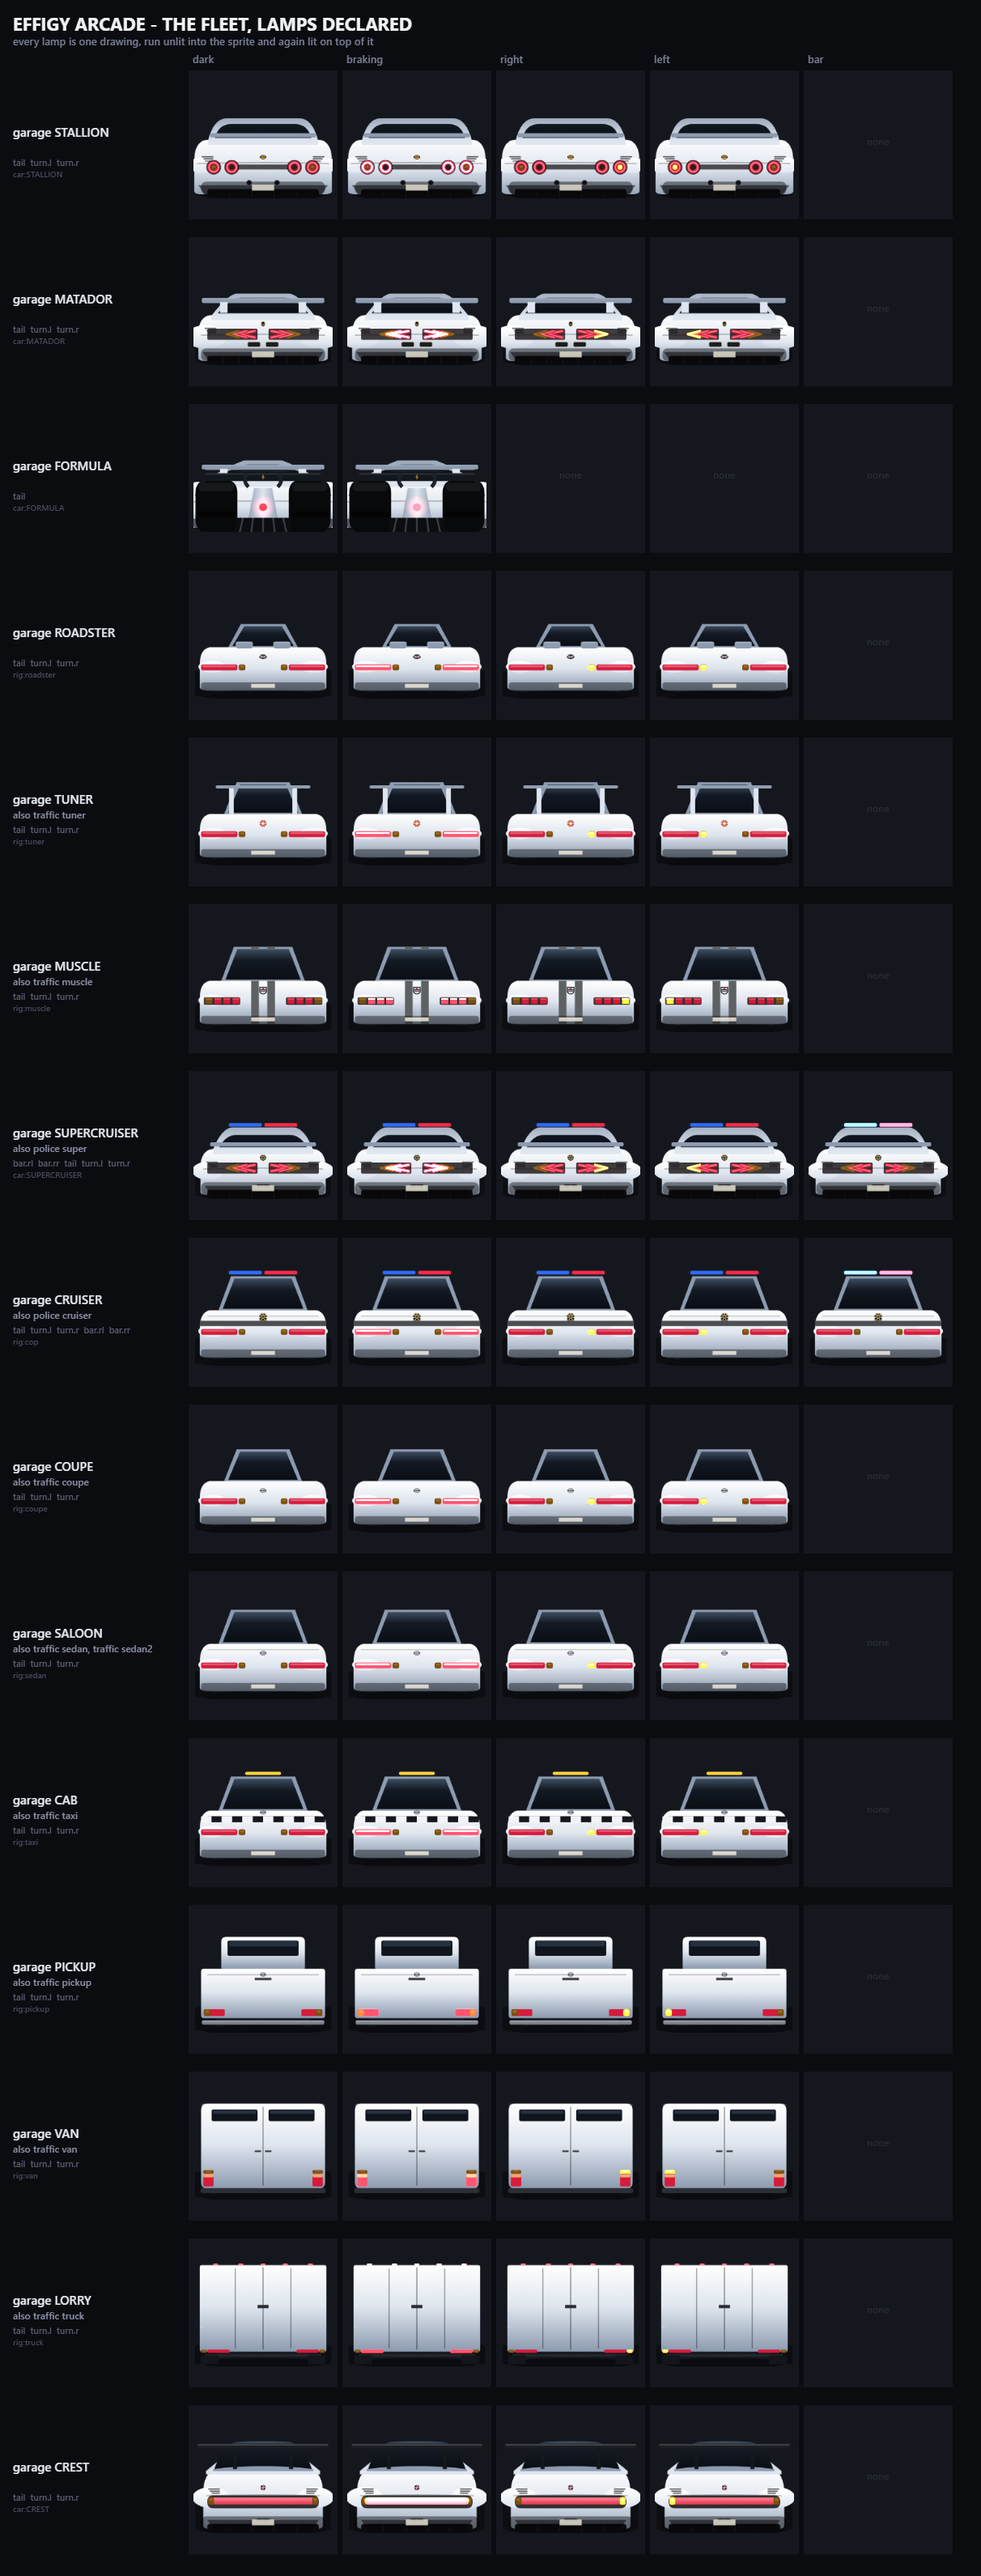
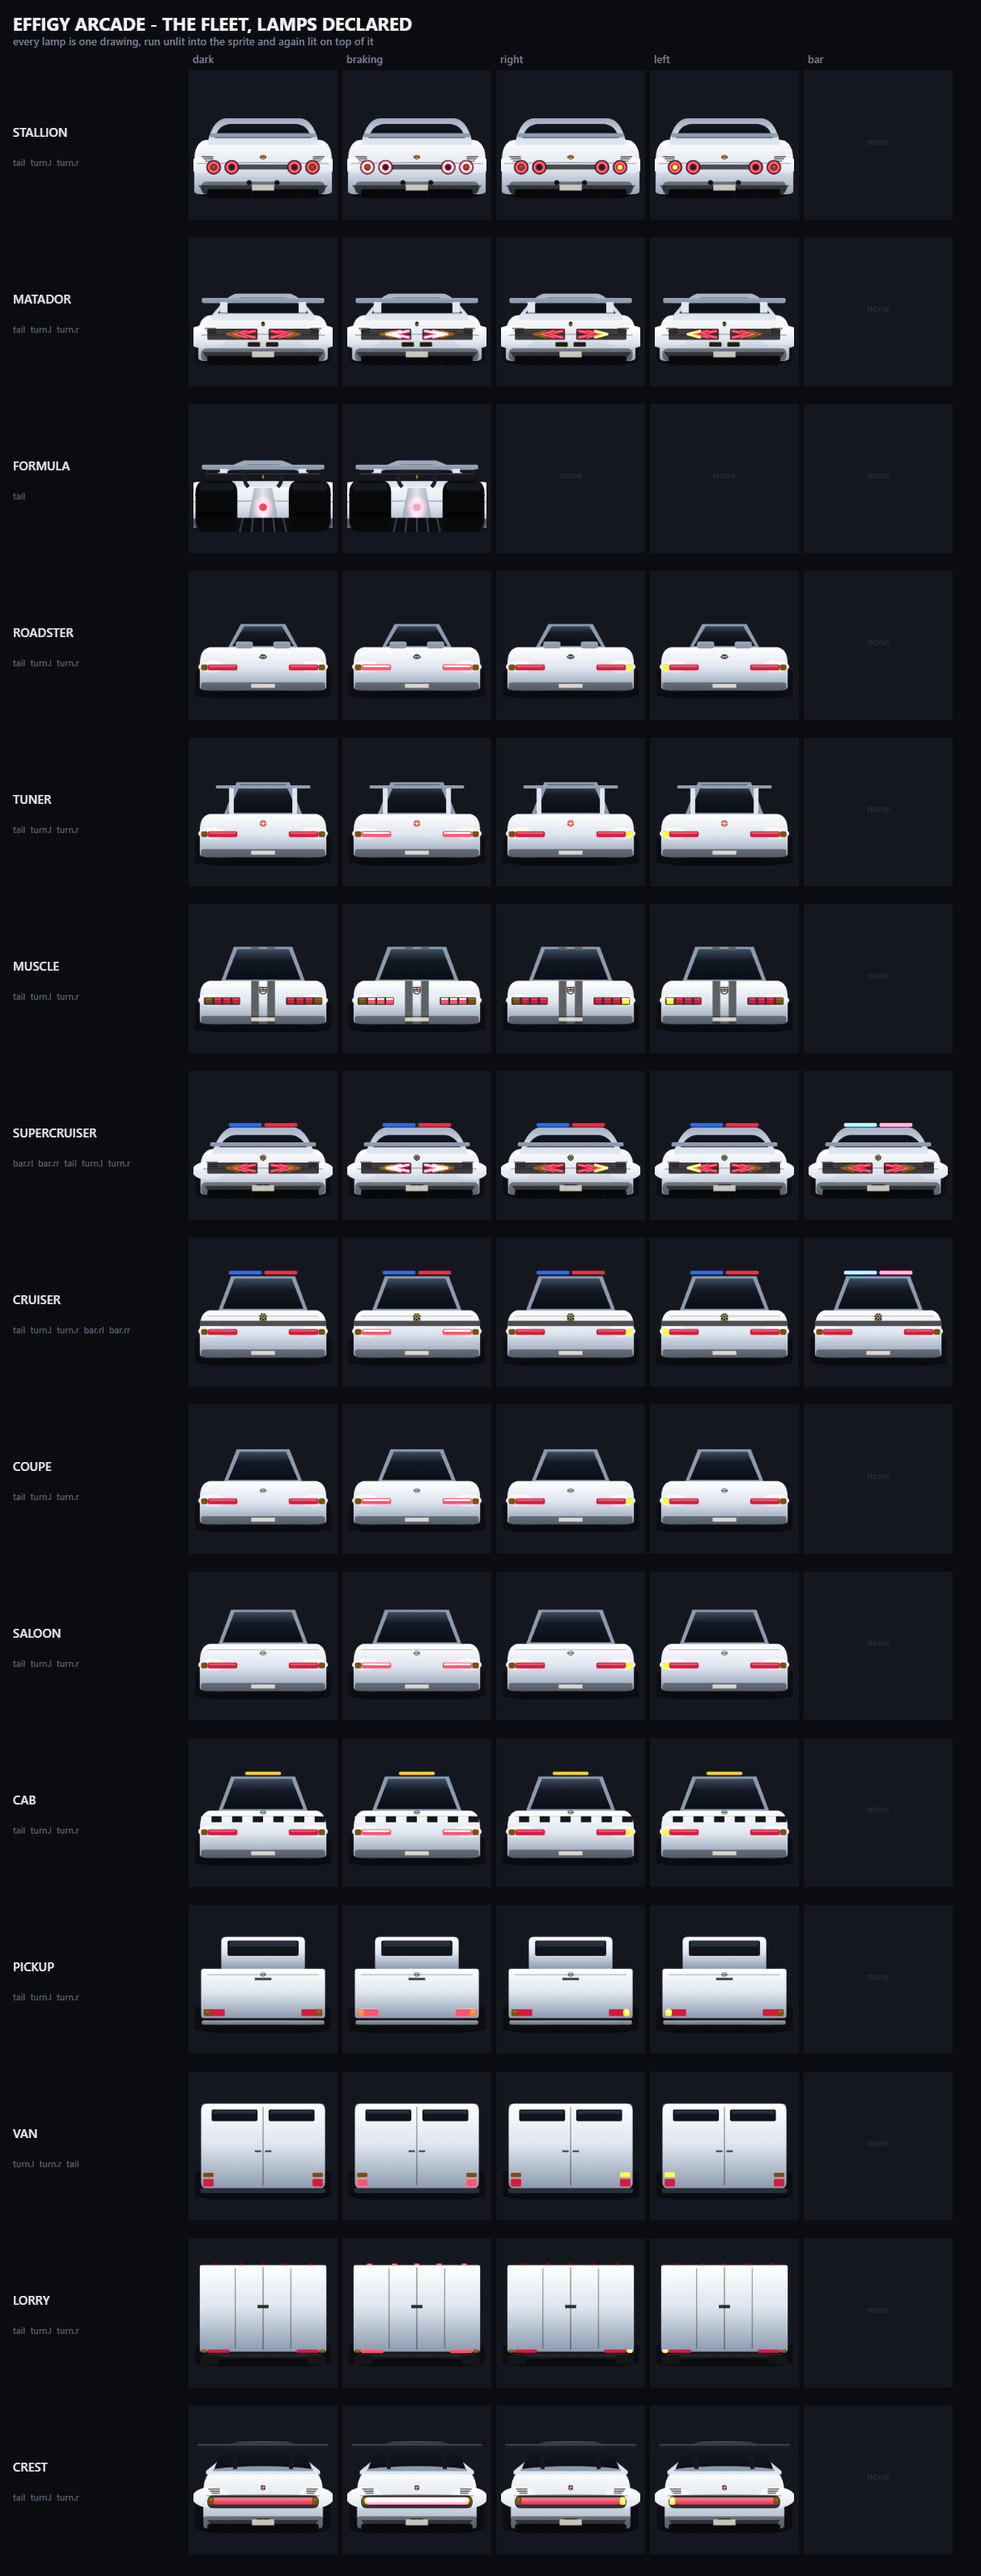
fix: one lamp of each on the van, and the ambers go outboard (RLG-053, v0.9.26)
BUILD 0.9.26

THE VAN, third attempt, and the instruction was exact: "a single brake light and
above it a single indicator lamp. One of each on each side of the vehicle."

What was there was one TALL red lamp with an amber band painted across its top -
one object that read as two - and the previous two attempts each adjusted the
wrong part of it. It is two separate lamps now with air between them: amber
above, red below, one of each per corner.

THE LATERAL CLUSTERS: the indicator goes OUTBOARD. On roadster, tuner, cruiser,
coupe, saloon and cab it was inboard, which put the two ambers close together in
the middle of the car where they read as one central lamp rather than as a SIDE
being signalled - which is the entire job of an indicator. It is carved out of
the cluster rather than added beside it, so the tail is the width it always was
and the amber is its outermost segment. That is now the pattern wherever there is
room for it: MATADOR's outermost chevron, MUSCLE's outermost box, and these.

AND THERE IS NO GARAGE VERSION OF ANYTHING. The sheet labelled rows "garage VAN /
also traffic van", which is an implementation detail leaking into a picture. The
garage car and the traffic car are ONE VEHICLE and the sheet says its name once.

The method note, written down because it has now cost three rounds: the fleet
sheet is an overview and it is not enough to judge a single vehicle by. When one
vehicle is in question, render THAT vehicle at three times the size, dark and
[…]

diff --git a/road.js b/road.js
@@ -80,7 +80,7 @@ const PLAYER_Z = CAM_H*CAM_D;
    worker serves scripts network-first with a cache fallback, so a device can end
    up with a fresh shell beside a cached engine, and the tag says MIXED when it
    does. Bumped with `Arcade.version`, in the same commit, every time. */
-window.ROAD_BUILD = '0.9.24';
+window.ROAD_BUILD = '0.9.26';
 
 const LANE_X = [-0.75,-0.25,0.25,0.75];
 /* ---- ONE LANE, and the unit every lateral move is written in ---------------
@@ -1451,10 +1451,18 @@ function decl(g, lamps, id, draw){
 const AMBER_OFF = '#7a4f12', AMBER_OFF_HI = '#a06a1c';
 const AMBER_ON  = '#ffb02e', AMBER_ON_HI  = '#ffe4a8';
 
-function turnBulb(x, y, bw, bh){
+function turnBulb(x, y, bw, bh, flat){
+  /* ---- A HIGHLIGHT NEEDS ROOM TO BE A HIGHLIGHT -------------------------
+     The inner band reads as glass on a lamp with some size to it. On a short
+     wide bulb it is nearly as big as the bulb itself, and the two bands read as
+     TWO LAMPS - which is what the owner saw on the van: "the indicators on the
+     van are weird, we only need a single indicator above each brake light."
+     `flat` draws the one lozenge and nothing inside it.
+     -------------------------------------------------------------------- */
   return (g, on) => {
     g.fillStyle = on ? AMBER_ON : AMBER_OFF;
     rr(g, x, y, bw, bh, Math.min(bw, bh)*0.35); g.fill();
+    if(flat) return;
     g.fillStyle = on ? AMBER_ON_HI : AMBER_OFF_HI;
     rr(g, x + bw*0.20, y + bh*0.16, bw*0.60, bh*0.34, Math.min(bw, bh)*0.22); g.fill();
   };
@@ -2164,7 +2172,15 @@ function paintRig(kind, o){
         gg.fillStyle = on ? '#ff3a34' : (P.lamp || '#b8371f');
         rr(gg, w*0.10, cy-h*0.155, w*0.16, h*0.032, 2); gg.fill();
         rr(gg, w*0.74, cy-h*0.155, w*0.16, h*0.032, 2); gg.fill();
-        gg.fillStyle = on ? '#ffd9a2' : (P.lamp2 || '#ffb066');
+        /* ---- RED, AND DARK RED WHEN IT IS OFF ---------------------------
+           Owner, 2026-08-29: the roof row illuminates bright red like the brake
+           lights. The first attempt lit it red over the AMBER the row was
+           painted in, and the lit pass composites additively - amber plus red is
+           yellow, so it came out pale. A lamp that lights red has to be a red
+           lamp when it is dark, which is also what a lorry's rear roof markers
+           are. The amber ones are on the front.
+           -------------------------------------------------------------- */
+        gg.fillStyle = on ? '#ff5a52' : '#7d1f22';
         for(const mx of [0.16,0.34,0.5,0.66,0.84]){
           rr(gg, w*mx-w*0.018, top-h*0.014, w*0.036, h*0.016, 2); gg.fill();
         }
@@ -2197,19 +2213,29 @@ function paintRig(kind, o){
       g.fillStyle='#3a3d44';
       g.fillRect(w*0.44, top+(bot-top)*0.55, w*0.045, h*0.016);
       g.fillRect(w*0.515, top+(bot-top)*0.55, w*0.045, h*0.016);
-      /* tall narrow lamps up the corners, as vans have */
+      /* ---- ONE BRAKE LIGHT, AND ONE INDICATOR ABOVE IT -------------------
+         Owner, 2026-08-29, for the third time and correctly: "a single brake
+         light and above it a single indicator lamp. One of each on each side of
+         the vehicle."
+
+         What was there was one TALL red lamp with an amber band painted across
+         its top - one object that read as two, and then as three when a bulb was
+         added above it. It is two separate lamps now, with air between them: the
+         amber sits above, the red below, on each corner.
+         ------------------------------------------------------------------- */
+      const VX = [w*0.07, w*0.855], VW = w*0.075;
+      decl(g, lamps, 'turn.l', (gg, on) => {
+        gg.fillStyle = on ? AMBER_ON : AMBER_OFF;
+        rr(gg, VX[0], bot-h*0.150, VW, h*0.042, 2); gg.fill();
+      });
+      decl(g, lamps, 'turn.r', (gg, on) => {
+        gg.fillStyle = on ? AMBER_ON : AMBER_OFF;
+        rr(gg, VX[1], bot-h*0.150, VW, h*0.042, 2); gg.fill();
+      });
       decl(g, lamps, 'tail', (gg, on) => {
         gg.fillStyle = on ? '#ff3a34' : (P.lamp || '#c8102e');
-        rr(gg, w*0.07, bot-h*0.135, w*0.075, h*0.115, 2); gg.fill();
-        rr(gg, w*0.855, bot-h*0.135, w*0.075, h*0.115, 2); gg.fill();
+        for(const x of VX){ rr(gg, x, bot-h*0.092, VW, h*0.072, 2); gg.fill(); }
       });
-      /* Owner, 2026-08-29: ABOVE the brake lights, and only there. A van's
-         corner cluster stacks upward and that is where the amber sits. */
-      decl(g, lamps, 'turn.l', turnBulb(w*0.07, bot-h*0.175, w*0.075, h*0.034));
-      decl(g, lamps, 'turn.r', turnBulb(w*0.855, bot-h*0.175, w*0.075, h*0.034));
-      g.fillStyle='rgba(255,190,120,.85)';
-      rr(g, w*0.07, bot-h*0.135, w*0.075, h*0.030, 2); g.fill();
-      rr(g, w*0.855, bot-h*0.135, w*0.075, h*0.030, 2); g.fill();
       /* and none on the van's doors either — front only */
       /* bumper */
       g.fillStyle='#2b2e34';
@@ -2404,17 +2430,29 @@ function paintRig(kind, o){
       decl(g, lamps, 'turn.r', (gg, on) =>
         box4(gg, 0.665, BOXK[3], on ? AMBER_ON : AMBER_OFF, on ? AMBER_ON_HI : AMBER_OFF_HI));
     } else {
+    /* ---- THE INDICATOR IS THE OUTBOARD END OF THE CLUSTER ----------------
+       Owner, 2026-08-29: on every car with a lateral cluster - roadster, tuner,
+       cruiser, coupe, saloon, cab - the indicator goes on the OUTSIDE rather
+       than the inside. It was inboard, which put the two ambers close together
+       in the middle of the car where they read as one central lamp rather than
+       as a side being signalled.
+
+       It is carved out of the cluster rather than added beside it, so the tail
+       is the same width it always was and the amber is the outermost segment -
+       the same shape of answer as MATADOR's outermost chevron and MUSCLE's
+       outermost box.
+       ------------------------------------------------------------------- */
+    const CL = w*0.055, CR = w*0.685, CW = w*0.26, TW = w*0.048;
     decl(g, lamps, 'tail', (gg, on) => {
       gg.fillStyle = on ? '#ff3a34' : (P.lamp || '#c8102e');
-      rr(gg, w*0.055, ly, w*0.26, lh, 3); gg.fill();
-      rr(gg, w*0.685, ly, w*0.26, lh, 3); gg.fill();
+      rr(gg, CL + TW, ly, CW - TW, lh, 3); gg.fill();
+      rr(gg, CR, ly, CW - TW, lh, 3); gg.fill();
       gg.fillStyle = on ? 'rgba(255,222,214,.85)' : 'rgba(255,255,255,.30)';
-      rr(gg, w*0.065, ly+lh*0.14, w*0.24, lh*0.30, 2); gg.fill();
-      rr(gg, w*0.695, ly+lh*0.14, w*0.24, lh*0.30, 2); gg.fill();
+      rr(gg, CL + TW + w*0.010, ly+lh*0.14, CW - TW - w*0.020, lh*0.30, 2); gg.fill();
+      rr(gg, CR + w*0.010, ly+lh*0.14, CW - TW - w*0.020, lh*0.30, 2); gg.fill();
     });
-    /* inboard of each cluster, where a saloon puts it */
-    decl(g, lamps, 'turn.l', turnBulb(w*0.325, ly, w*0.048, lh));
-    decl(g, lamps, 'turn.r', turnBulb(w*0.627, ly, w*0.048, lh));
+    decl(g, lamps, 'turn.l', turnBulb(CL, ly, TW, lh, true));
+    decl(g, lamps, 'turn.r', turnBulb(CR + CW - TW, ly, TW, lh, true));
     /* ---- the boot spoiler, at the FRONT's height ------------------------
        The front draws it at `roofY + 0.030`; this was at `deckY - 0.055`,
        which with roofY 0.22 and deckY 0.52 is most of the car apart. Same
@@ -11359,7 +11397,7 @@ requestAnimationFrame(frameLoop);
          For a rig body that is the rig; for a painted body it is the body key
          itself, because SUPERCRUISER and the police super cruiser are the same
          car and keying on `rear` would have split them - it is MATADOR's tail. */
-      out.push({ name:'garage ' + k, sig: rs.rig ? 'rig:'+rs.rig : 'car:'+k, spr:spr });
+      out.push({ name:k, sig: rs.rig ? 'rig:'+rs.rig : 'car:'+k, spr:spr });
     }
     const traf = { sedan:SP.sedan, sedan2:SP.sedan2, coupe:SP.coupe, van:SP.van,
                    pickup:SP.pickup, truck:SP.truck, taxi:(TRAFFIC_SP.taxi||[])[0],
@@ -11367,9 +11405,9 @@ requestAnimationFrame(frameLoop);
     const trafRig = { sedan:'sedan', sedan2:'sedan', coupe:'coupe', van:'van', pickup:'pickup',
                       truck:'truck', taxi:'taxi', muscle:'muscle', tuner:'tuner' };
     for(const k in traf)
-      if(traf[k]) out.push({ name:'traffic ' + k, sig:'rig:'+trafRig[k], spr:traf[k] });
-    if(SP.cop) out.push({ name:'police cruiser', sig:'rig:cop', spr:SP.cop });
-    if(SP.superCop) out.push({ name:'police super', sig:'car:SUPERCRUISER', spr:SP.superCop });
+      if(traf[k]) out.push({ name:k, sig:'rig:'+trafRig[k], spr:traf[k] });
+    if(SP.cop) out.push({ name:'CRUISER', sig:'rig:cop', spr:SP.cop });
+    if(SP.superCop) out.push({ name:'SUPERCRUISER', sig:'car:SUPERCRUISER', spr:SP.superCop });
     return out;
   };
   API.holdBlink = function(v){ blinkHold = !!v; return blinkHold; };

diff --git a/arcade.js b/arcade.js
@@ -44,7 +44,7 @@ var A = window.Arcade = window.Arcade || {};
    over would have said "nearly done" about work that has barely started. The
    version tracks THIS product. The maturity of the engine underneath it is
    recorded in the git history, which came across whole. */
-A.version = '0.9.24';
+A.version = '0.9.26';
 
 /* ---- WHICH BUILD AM I PLAYING? -------------------------------------------
    Asked for by the owner, 2026-08-29, and it is a testing tool rather than

diff --git a/tools/fleet-sheet.py b/tools/fleet-sheet.py
@@ -109,11 +109,8 @@ SHEET = r"""() => {
     g.fillText(r.who[0], PAD, y + CELL/2 - 10);
     g.fillStyle = '#8d93a8';
     g.font = '500 12px system-ui, sans-serif';
-    if (r.who.length > 1) g.fillText('also ' + r.who.slice(1).join(', '), PAD, y + CELL/2 + 8);
-    /* the painter, so two rows that look alike in white can be told apart */
-    g.fillStyle = '#4a4f60';
-    g.font = '500 10px system-ui, sans-serif';
-    g.fillText(r.sig, PAD, y + CELL/2 + 40);
+    /* ONE OF EACH VEHICLE. There is no such thing as a garage version and a
+       traffic version - it is one car, and the sheet says its name once. */
     g.fillStyle = '#5f6579';
     g.font = '500 11px system-ui, sans-serif';
     g.fillText(Object.keys(L).join('  '), PAD, y + CELL/2 + 26);

diff --git a/docs/fragments/RLG-053.md b/docs/fragments/RLG-053.md
@@ -221,3 +221,54 @@ were not.
 **The fleet is 15 distinct vehicles**, not 26: the garage SALOON and the traffic sedan are one
 painter in two liveries, and eleven such pairs exist. The 26 figure is sprites, and it is the one
 `lamp-test` counts.
+- **RULED 2026-08-29T07:52:07-04:00** — **TWO MORE, v0.9.25, and both were caused by not looking closely enough.**
+
+**The van had TWO ambers.** Its cluster has always carried an amber band across the top of each red
+lamp - it was in the art before any of this - and the conversion added a bulb ABOVE that. The owner:
+*"The indicators on the van are weird. We only need a single indicator above each brake light."*
+
+**The band IS that single indicator**, and it is declared now rather than replaced. That is the
+ruling working in the direction it was meant to: the art was already right and nothing was reading
+it. The added bulb is gone.
+
+**The lorry's roof row lit PALE YELLOW when it was asked to light red**, and the reason is worth
+keeping. A lit lamp is composited with `lighter`, which ADDS. The row was painted amber, and
+amber plus red is yellow. **A lamp that lights red has to be a red lamp when it is dark** - so the
+roof row is dark red now and lights bright red, which is also what a lorry's REAR roof markers are.
+The amber ones are on the front.
+
+**The general trap, and it applies to every lamp added from here:** under additive compositing the
+unlit colour is not covered up, it is part of the result. A declaration whose two states are in
+different hues will land on a third hue that neither of them is.
+
+**And the method note.** Both faults were invisible in the fleet sheet at one row per vehicle and
+obvious the moment the van and the lorry were rendered three times the size, side by side, dark and
+lit. `tools/fleet-sheet.py` is the overview; when a specific vehicle is in question, render THAT
+vehicle large before changing anything. The first attempt at the van fix - making the added bulb
+flat instead of two-part - was aimed at the wrong lamp entirely, and a zoom would have said so
+before the change rather than after.
+- **RULED 2026-08-29T07:55:33-04:00** — **v0.9.26, three more from the owner and one of them was a repeat.**
+
+**THE VAN, third time, and the instruction was exact:** *"a single brake light and above it a single
+indicator lamp. One of each on each side of the vehicle."* What was there was one TALL red lamp with
+an amber band painted across its top - one object that read as two - and the previous two attempts
+had each adjusted the wrong part of it. It is now two separate lamps with air between them: amber
+above, red below, one of each per corner. **Both earlier attempts changed a lamp without rendering
+that vehicle large first, and both were wrong.**
+
+**THE LATERAL CLUSTERS: the indicator goes OUTBOARD.** Owner: on roadster, tuner, cruiser, coupe,
+saloon and cab the indicator belongs on the outside rather than the inside. Inboard put the two
+ambers close together in the middle of the car, where they read as one central lamp rather than as a
+SIDE being signalled - which is the entire job of an indicator. It is carved out of the cluster
+rather than added beside it, so the tail is the width it always was and the amber is its outermost
+segment. That is now the pattern on every vehicle that has room for it: MATADOR's outermost chevron,
+MUSCLE's outermost box, and these.
+
+**AND THERE IS NO "GARAGE" VERSION OF ANYTHING.** The sheet labelled rows `garage VAN / also traffic
+van`, which is an implementation detail leaking into a picture: the garage car and the traffic car
+are ONE VEHICLE, and the sheet says its name once. `API.fleet` names them plainly now.
+
+**The method, stated once because it has cost three rounds:** the fleet sheet is the overview and it
+is not enough to judge a single vehicle by. When one vehicle is in question, render THAT vehicle at
+three times the size, dark and lit, and look at it BEFORE changing anything. Every wrong fix in this
+sequence was made from the overview; every right one was made from the zoom.

diff --git a/docs/core/changelog.md b/docs/core/changelog.md
@@ -14,6 +14,29 @@ barely started, and 0.9.x would have claimed otherwise.
 
 ---
 
+<a id="v0-9-26"></a>
+## [0.9.26] - 2026-08-29
+- Fixed: **the van has one brake light and one indicator above it, per side.** It was a single tall
+  red lamp with an amber band across its top - one object that read as two - and two earlier attempts
+  each adjusted the wrong part of it ([RLG-053](../fragments/RLG-053.md)).
+- Changed: **on every laterally-clustered car the indicator is OUTBOARD** - roadster, tuner, cruiser,
+  coupe, saloon, cab. Inboard put the two ambers together in the middle of the car, where they read
+  as one central lamp rather than as a side being signalled. Carved out of the cluster, so the tail
+  is the width it always was ([RLG-053](../fragments/RLG-053.md)).
+- Changed: the fleet sheet names each vehicle once. **There is no garage version and traffic version
+  - it is one car** ([RLG-053](../fragments/RLG-053.md)).
+
+<a id="v0-9-25"></a>
+## [0.9.25] - 2026-08-29
+- Fixed: **the van had two indicators.** Its cluster has always carried an amber band across the top
+  of each red lamp; the conversion added a bulb above it. The band is declared as the indicator now
+  and the added bulb is gone - the art was already right and nothing was reading it
+  ([RLG-053](../fragments/RLG-053.md)).
+- Fixed: **the lorry's roof row lit pale yellow when asked to light red.** A lit lamp composites with
+  `lighter`, which adds, and amber plus red is yellow. The row is dark red when off and bright red
+  when braking, which is what a lorry's rear roof markers are
+  ([RLG-053](../fragments/RLG-053.md)).
+
 <a id="v0-9-24"></a>
 ## [0.9.24] - 2026-08-29
 - Changed: **STALLION keeps all four rings as brake lights**, and the indicator is the dot inside the
